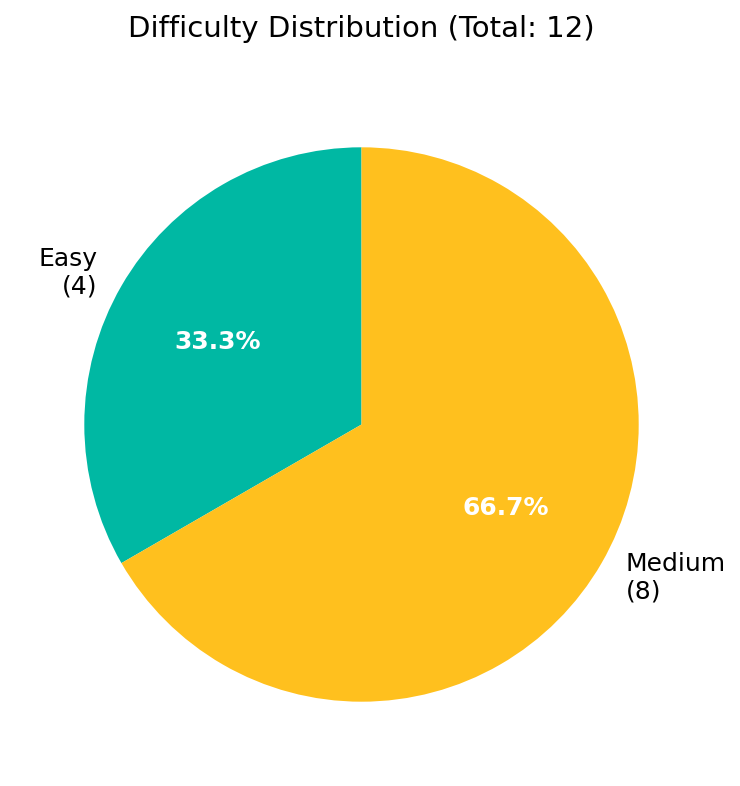
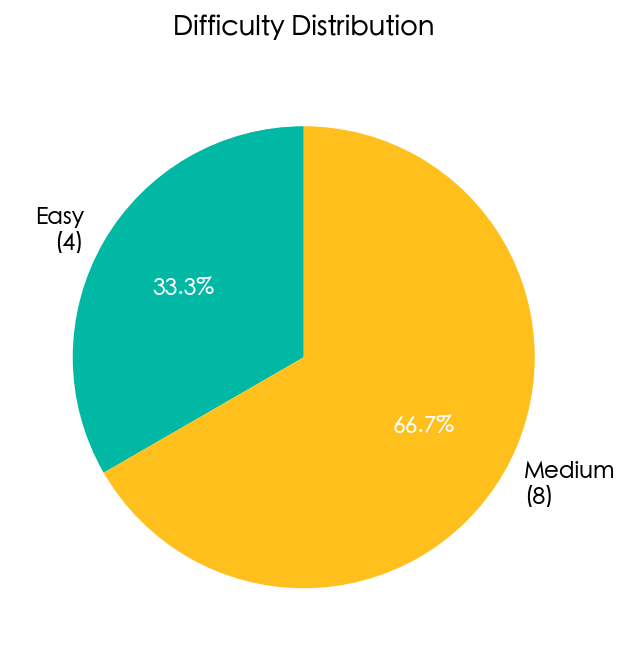
Update more detailed text descriptions to lc-stats generated README.

diff --git a/python/lc-stats/src/lc_stats/readme.py b/python/lc-stats/src/lc_stats/readme.py
@@ -8,6 +8,71 @@ from .stats import Statistics
 STATS_START_MARKER = "<!-- STATS_START -->"
 STATS_END_MARKER = "<!-- STATS_END -->"
 
+# Chinese to English tag mapping for common tags
+TAG_TRANSLATION = {
+    "数组": "Array",
+    "哈希表": "Hash Table",
+    "排序": "Sorting",
+    "字符串": "String",
+    "链表": "Linked List",
+    "树": "Tree",
+    "二叉树": "Binary Tree",
+    "动态规划": "Dynamic Programming",
+    "贪心": "Greedy",
+    "双指针": "Two Pointers",
+    "栈": "Stack",
+    "队列": "Queue",
+    "堆（优先队列）": "Heap",
+    "图": "Graph",
+    "深度优先搜索": "DFS",
+    "广度优先搜索": "BFS",
+    "二分查找": "Binary Search",
+    "回溯": "Backtracking",
+    "分治": "Divide and Conquer",
+    "位运算": "Bit Manipulation",
+    "数学": "Math",
+    "计数": "Counting",
+    "桶排序": "Bucket Sort",
+    "快速选择": "Quick Select",
+    "矩阵": "Matrix",
+}
+
+# Difficulty name mapping
+DIFFICULTY_NAME_EN = {"Easy": "Easy", "Medium": "Medium", "Hard": "Hard"}
+DIFFICULTY_NAME_ZH = {"Easy": "简单", "Medium": "中等", "Hard": "困难"}
+
+
+def get_dominant_difficulty(stats: Statistics) -> str:
+    """Get the difficulty level with the most problems.
+
+    Args:
+        stats: Statistics instance
+
+    Returns:
+        The dominant difficulty level name
+    """
+    max_count = 0
+    dominant = "Medium"  # Default fallback
+
+    for difficulty, count in stats.difficulty_counts.items():
+        if count > max_count:
+            max_count = count
+            dominant = difficulty
+
+    return dominant
+
+
+def translate_tag(tag: str) -> str:
+    """Translate a Chinese tag to English.
+
+    Args:
+        tag: Tag name (possibly in Chinese)
+
+    Returns:
+        English tag name
+    """
+    return TAG_TRANSLATION.get(tag, tag)
+
 
 def generate_stats_section_en(stats: Statistics) -> str:
     """Generate English statistics section content.
@@ -22,16 +87,35 @@ def generate_stats_section_en(stats: Statistics) -> str:
     medium = stats.difficulty_counts.get("Medium", 0)
     hard = stats.difficulty_counts.get("Hard", 0)
 
+    # Get dominant difficulty
+    dominant = get_dominant_difficulty(stats)
+    dominant_name = DIFFICULTY_NAME_EN[dominant]
+
+    # Get top tags for description (translated to English)
+    sorted_tags = sorted(stats.tag_counts.items(), key=lambda x: x[1], reverse=True)
+    top_3_tags = [translate_tag(tag) for tag, _ in sorted_tags[:3]]
+    top_tags_str = ", ".join(top_3_tags) if top_3_tags else "various topics"
+
     return f"""{STATS_START_MARKER}
-## 📊 Progress
+## 📊 LeetCode Progress
+
+Currently, this repository contains solutions to **{stats.total}** LeetCode problems, covering a range of difficulty levels and algorithmic topics.
 
 | Total | Easy | Medium | Hard |
 |:-----:|:----:|:------:|:----:|
 | {stats.total} | {easy} | {medium} | {hard} |
 
+The pie chart below shows the distribution of problems by difficulty level, while the bar chart highlights the top 10 most frequently encountered tags. The majority of problems fall into the **{dominant_name}** category, with a focus on fundamental topics like {top_tags_str}.
+
 <p align="center">
-  <img src="./assets/difficulty_distribution.png" alt="Difficulty Distribution" width="400">
-  <img src="./assets/tag_cloud.png" alt="Tag Cloud" width="400">
+  <img src="./assets/difficulty_distribution.png" alt="Difficulty Distribution" width="380">
+  <img src="./assets/top_tags.png" alt="Top 10 Tags" width="420">
+</p>
+
+The word cloud below provides a visual overview of all tags covered in this repository, with larger words indicating more frequently practiced topics.
+
+<p align="center">
+  <img src="./assets/tag_cloud.png" alt="Tag Cloud" width="700">
 </p>
 
 {STATS_END_MARKER}"""
@@ -50,16 +134,35 @@ def generate_stats_section_zh(stats: Statistics) -> str:
     medium = stats.difficulty_counts.get("Medium", 0)
     hard = stats.difficulty_counts.get("Hard", 0)
 
+    # Get dominant difficulty
+    dominant = get_dominant_difficulty(stats)
+    dominant_name = DIFFICULTY_NAME_ZH[dominant]
+
+    # Get top tags for description
+    sorted_tags = sorted(stats.tag_counts.items(), key=lambda x: x[1], reverse=True)
+    top_3_tags = [tag for tag, _ in sorted_tags[:3]]
+    top_tags_str = "、".join(top_3_tags) if top_3_tags else "多种主题"
+
     return f"""{STATS_START_MARKER}
-## 📊 刷题进度
+## 📊 LeetCode 解题进度
+
+目前，本仓库已收录 **{stats.total}** 道 LeetCode 题目的解答，涵盖不同难度级别和多种算法主题。
 
 | 总计 | 简单 | 中等 | 困难 |
 |:----:|:----:|:----:|:----:|
 | {stats.total} | {easy} | {medium} | {hard} |
 
+下方饼图展示了题目的难度分布，条形图则列出了出现频率最高的 10 个标签。可以看到，大部分题目集中在**{dominant_name}**难度，重点练习了{top_tags_str}等基础主题。
+
 <p align="center">
-  <img src="./assets/difficulty_distribution.png" alt="难度分布" width="400">
-  <img src="./assets/tag_cloud.png" alt="标签云" width="400">
+  <img src="./assets/difficulty_distribution.png" alt="难度分布" width="380">
+  <img src="./assets/top_tags.png" alt="Top 10 标签" width="420">
+</p>
+
+下方词云图直观呈现了本仓库涉及的所有标签，字体越大表示该主题的练习频率越高。
+
+<p align="center">
+  <img src="./assets/tag_cloud.png" alt="标签云" width="700">
 </p>
 
 {STATS_END_MARKER}"""

diff --git a/python/lc-stats/src/lc_stats/charts.py b/python/lc-stats/src/lc_stats/charts.py
@@ -4,6 +4,7 @@ import platform
 from pathlib import Path
 
 import matplotlib.pyplot as plt
+from matplotlib import font_manager
 from wordcloud import WordCloud
 
 from .stats import Statistics
@@ -48,6 +49,15 @@ def get_chinese_font_path() -> str | None:
     return None
 
 
+def setup_chinese_font() -> None:
+    """Setup matplotlib to use Chinese font."""
+    font_path = get_chinese_font_path()
+    if font_path:
+        font_manager.fontManager.addfont(font_path)
+        prop = font_manager.FontProperties(fname=font_path)
+        plt.rcParams["font.family"] = prop.get_name()
+
+
 def generate_pie_chart(stats: Statistics, output_path: Path) -> None:
     """Generate a pie chart for difficulty distribution.
 
@@ -70,8 +80,10 @@ def generate_pie_chart(stats: Statistics, output_path: Path) -> None:
     if not sizes:
         return
 
+    setup_chinese_font()
+
     # Create figure with transparent background
-    fig, ax = plt.subplots(figsize=(6, 6), facecolor="none")
+    fig, ax = plt.subplots(figsize=(5, 5), facecolor="none")
     ax.set_facecolor("none")
 
     wedges, texts, autotexts = ax.pie(
@@ -80,7 +92,7 @@ def generate_pie_chart(stats: Statistics, output_path: Path) -> None:
         colors=colors,
         autopct="%1.1f%%",
         startangle=90,
-        textprops={"fontsize": 12},
+        textprops={"fontsize": 11},
     )
 
     # Style the percentage text
@@ -88,7 +100,58 @@ def generate_pie_chart(stats: Statistics, output_path: Path) -> None:
         autotext.set_color("white")
         autotext.set_fontweight("bold")
 
-    ax.set_title(f"Difficulty Distribution (Total: {stats.total})", fontsize=14, pad=20)
+    ax.set_title(f"Difficulty Distribution", fontsize=13, pad=15)
+
+    # Save with tight layout
+    output_path.parent.mkdir(parents=True, exist_ok=True)
+    plt.savefig(output_path, dpi=150, bbox_inches="tight", transparent=True)
+    plt.close()
+
+
+def generate_bar_chart(stats: Statistics, output_path: Path, top_n: int = 10) -> None:
+    """Generate a horizontal bar chart for top N tags.
+
+    Args:
+        stats: Statistics instance
+        output_path: Path to save the chart image
+        top_n: Number of top tags to show
+    """
+    if not stats.tag_counts:
+        return
+
+    setup_chinese_font()
+
+    # Get top N tags sorted by count
+    sorted_tags = sorted(stats.tag_counts.items(), key=lambda x: x[1], reverse=True)[:top_n]
+
+    # Reverse for horizontal bar chart (top item at top)
+    sorted_tags = sorted_tags[::-1]
+
+    tags = [item[0] for item in sorted_tags]
+    counts = [item[1] for item in sorted_tags]
+
+    # Create figure
+    fig, ax = plt.subplots(figsize=(6, 5), facecolor="none")
+    ax.set_facecolor("none")
+
+    # Create horizontal bar chart with gradient colors
+    colors = plt.cm.viridis([i / len(tags) for i in range(len(tags))])
+    bars = ax.barh(tags, counts, color=colors)
+
+    # Add count labels on bars
+    for bar, count in zip(bars, counts):
+        ax.text(
+            bar.get_width() + 0.1,
+            bar.get_y() + bar.get_height() / 2,
+            str(count),
+            va="center",
+            fontsize=10,
+        )
+
+    ax.set_xlabel("Count", fontsize=11)
+    ax.set_title(f"Top {len(tags)} Tags", fontsize=13, pad=15)
+    ax.spines["top"].set_visible(False)
+    ax.spines["right"].set_visible(False)
 
     # Save with tight layout
     output_path.parent.mkdir(parents=True, exist_ok=True)
@@ -110,13 +173,13 @@ def generate_word_cloud(stats: Statistics, output_path: Path) -> None:
 
     # Create word cloud
     wc = WordCloud(
-        width=800,
-        height=400,
+        width=900,
+        height=350,
         background_color=None,
         mode="RGBA",
         font_path=font_path,
         max_words=100,
-        min_font_size=10,
+        min_font_size=12,
         max_font_size=80,
         colormap="viridis",
         prefer_horizontal=0.7,
@@ -144,6 +207,10 @@ def generate_all_charts(stats: Statistics, assets_dir: Path) -> dict[str, Path]:
     pie_path = assets_dir / "difficulty_distribution.png"
     generate_pie_chart(stats, pie_path)
     outputs["pie"] = pie_path
+
+    bar_path = assets_dir / "top_tags.png"
+    generate_bar_chart(stats, bar_path)
+    outputs["bar"] = bar_path
 
     cloud_path = assets_dir / "tag_cloud.png"
     generate_word_cloud(stats, cloud_path)

diff --git a/README.md b/README.md
@@ -33,15 +33,25 @@ The project documentation is organized using Obsidian, supporting full-repositor
 - **AI Empowerment**: Planned intelligent translation and RAG-based Q&A assistant to enhance learning efficiency using modern technology.
 
 <!-- STATS_START -->
-## 📊 Progress
+## 📊 LeetCode Progress
+
+Currently, this repository contains solutions to **12** LeetCode problems, covering a range of difficulty levels and algorithmic topics.
 
 | Total | Easy | Medium | Hard |
 |:-----:|:----:|:------:|:----:|
 | 12 | 4 | 8 | 0 |
 
+The pie chart below shows the distribution of problems by difficulty level, while the bar chart highlights the top 10 most frequently encountered tags. The majority of problems fall into the **Medium** category, with a focus on fundamental topics like Array, Hash Table, Sorting.
+
 <p align="center">
-  <img src="./assets/difficulty_distribution.png" alt="Difficulty Distribution" width="400">
-  <img src="./assets/tag_cloud.png" alt="Tag Cloud" width="400">
+  <img src="./assets/difficulty_distribution.png" alt="Difficulty Distribution" width="380">
+  <img src="./assets/top_tags.png" alt="Top 10 Tags" width="420">
+</p>
+
+The word cloud below provides a visual overview of all tags covered in this repository, with larger words indicating more frequently practiced topics.
+
+<p align="center">
+  <img src="./assets/tag_cloud.png" alt="Tag Cloud" width="700">
 </p>
 
 <!-- STATS_END -->

diff --git a/README_zh.md b/README_zh.md
@@ -30,15 +30,25 @@
 - AI 赋能：规划中的智能翻译与 RAG 答疑助手，利用现代技术提升学习效率。
 
 <!-- STATS_START -->
-## 📊 刷题进度
+## 📊 LeetCode 解题进度
+
+目前，本仓库已收录 **12** 道 LeetCode 题目的解答，涵盖不同难度级别和多种算法主题。
 
 | 总计 | 简单 | 中等 | 困难 |
 |:----:|:----:|:----:|:----:|
 | 12 | 4 | 8 | 0 |
 
+下方饼图展示了题目的难度分布，条形图则列出了出现频率最高的 10 个标签。可以看到，大部分题目集中在**中等**难度，重点练习了数组、哈希表、排序等基础主题。
+
 <p align="center">
-  <img src="./assets/difficulty_distribution.png" alt="难度分布" width="400">
-  <img src="./assets/tag_cloud.png" alt="标签云" width="400">
+  <img src="./assets/difficulty_distribution.png" alt="难度分布" width="380">
+  <img src="./assets/top_tags.png" alt="Top 10 标签" width="420">
+</p>
+
+下方词云图直观呈现了本仓库涉及的所有标签，字体越大表示该主题的练习频率越高。
+
+<p align="center">
+  <img src="./assets/tag_cloud.png" alt="标签云" width="700">
 </p>
 
 <!-- STATS_END -->
